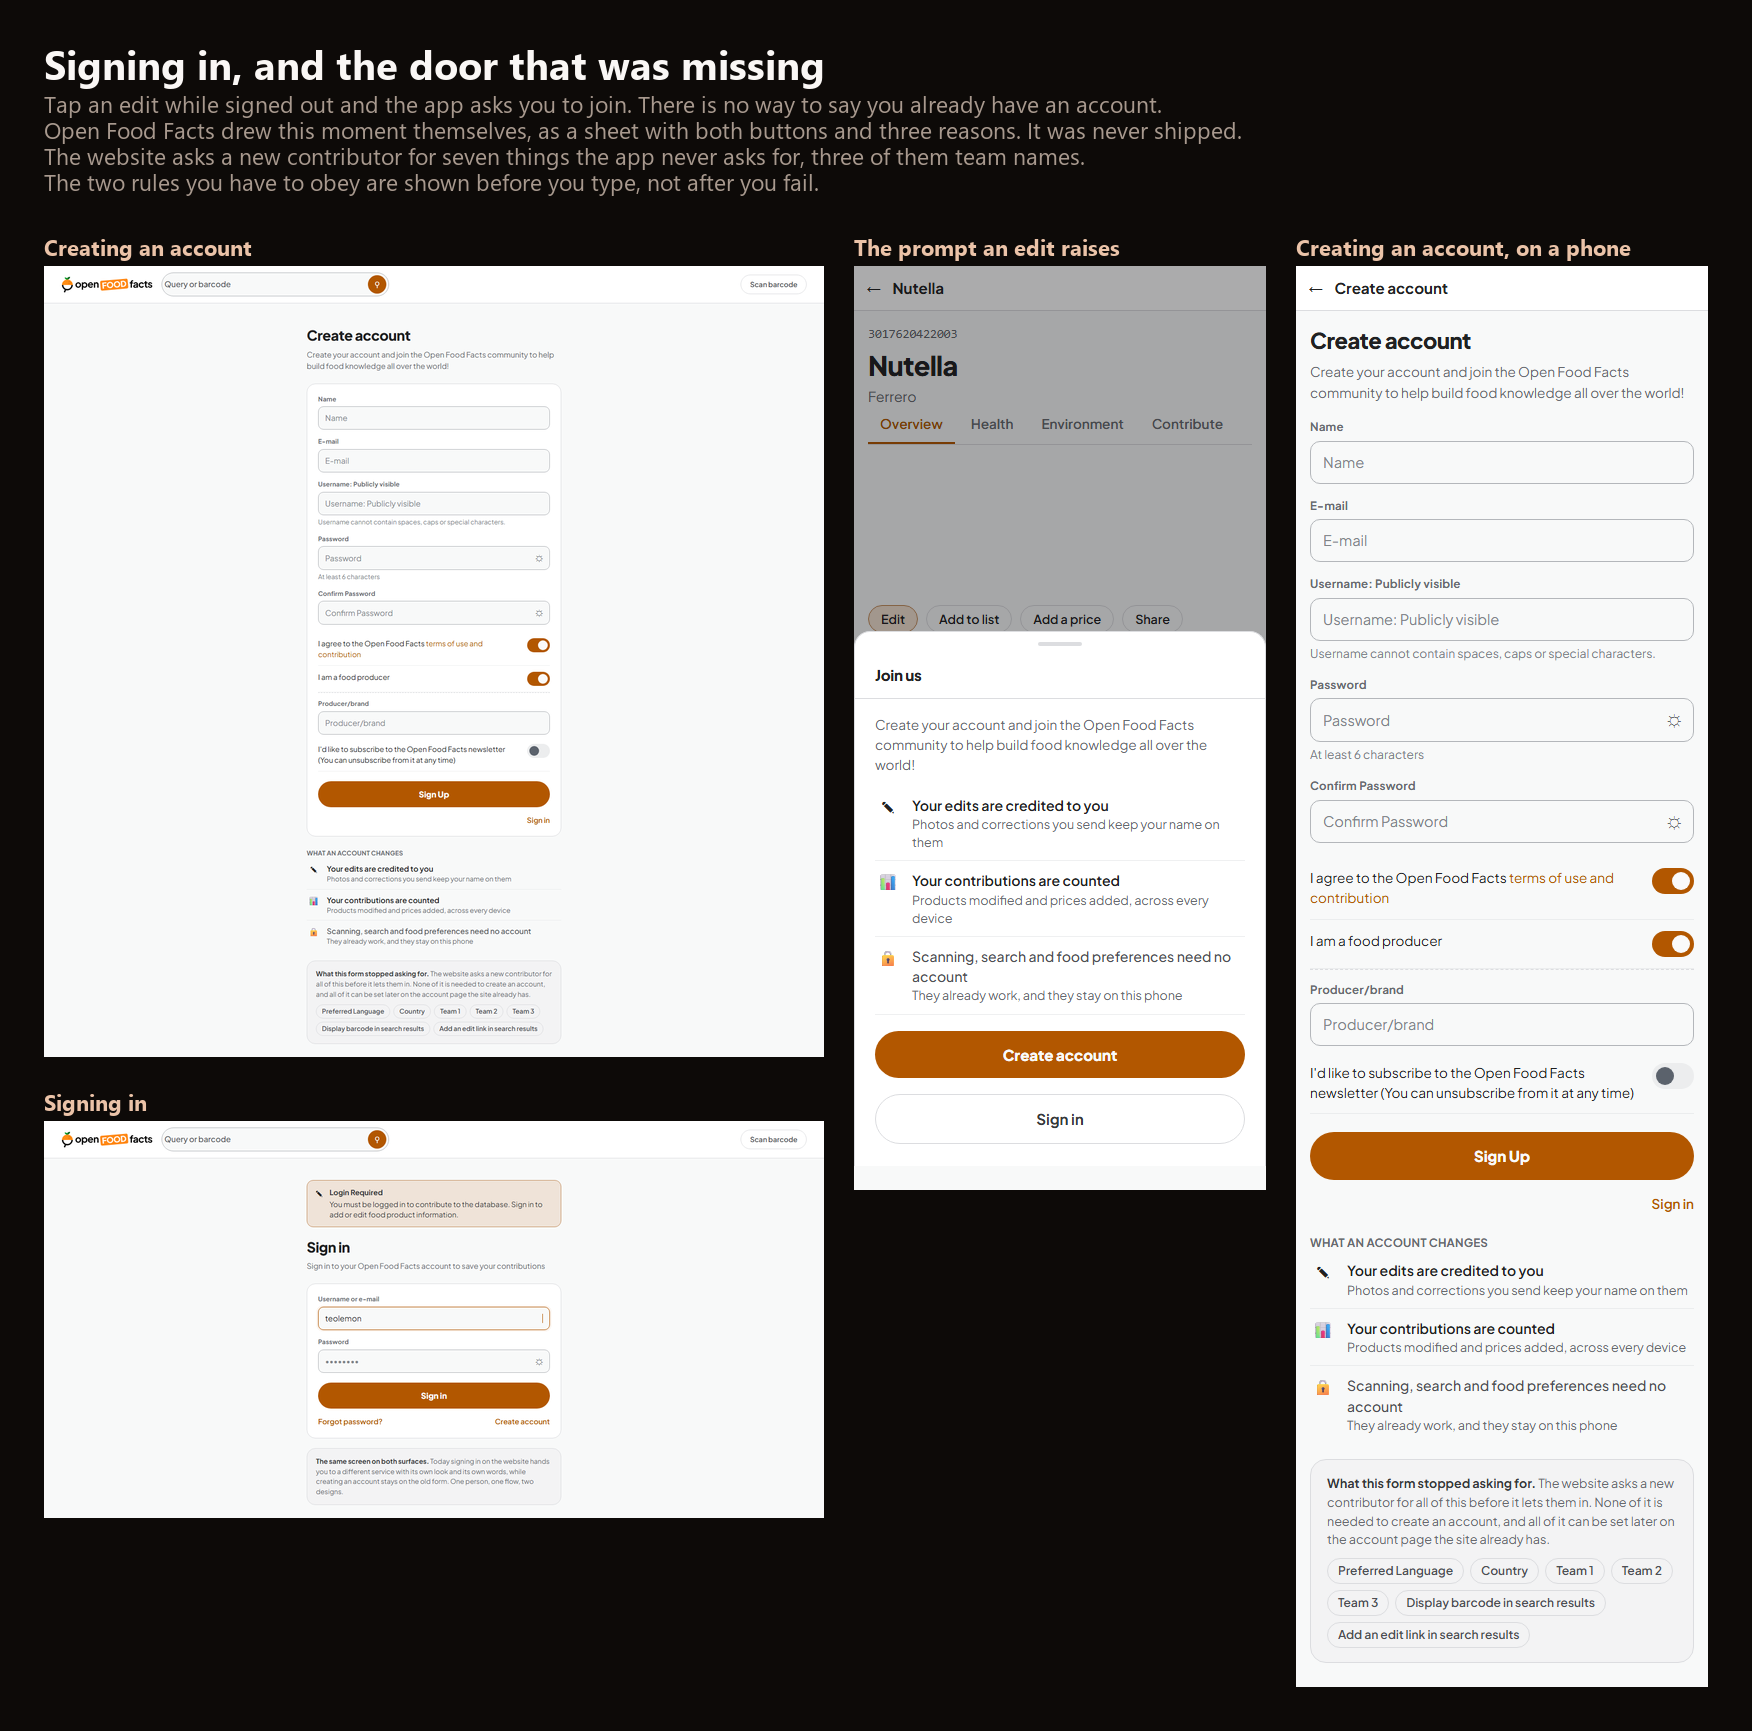
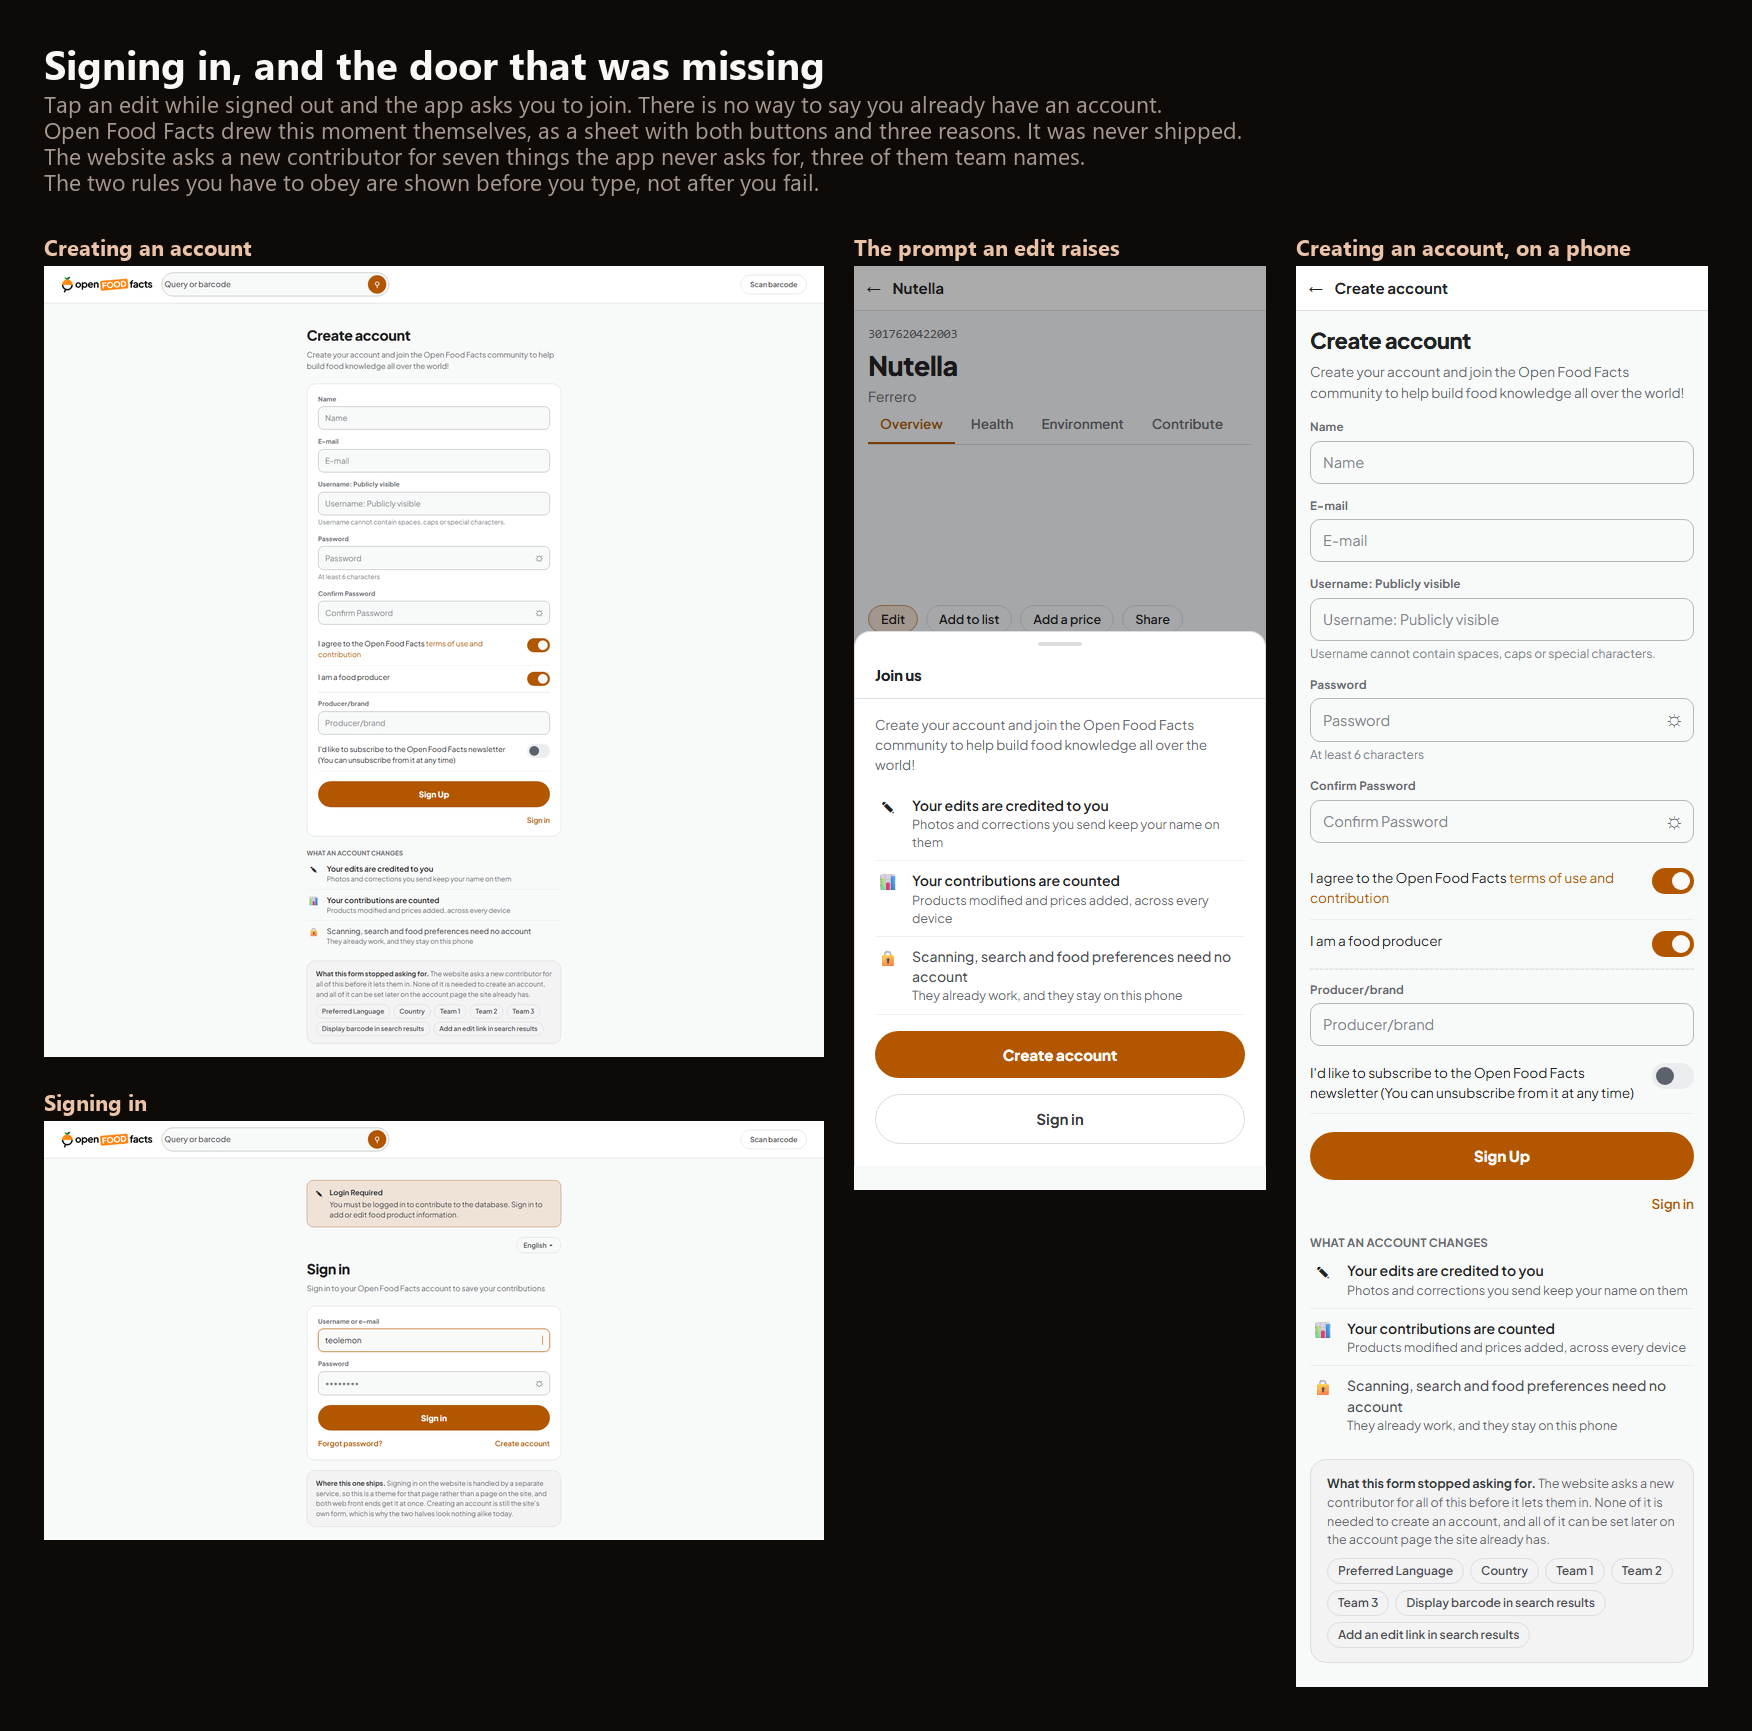
Account screens: the sign-in prompt with both doors, create account, reset

Changed region(s): [[0.0308, 0.7175, 0.4932, 0.9047]]

diff --git a/15-account/account-signin.html b/15-account/account-signin.html
@@ -33,6 +33,8 @@
       <span class="t"><b>Login Required</b>You must be logged in to contribute to the database. Sign in to add or edit food product information.</span>
     </div>
 
+    <div class="langrow"><span class="lang">English &#9662;</span></div>
+
     <h1>Sign in</h1>
     <div class="lead">Sign in to your Open Food Facts account to save your contributions</div>
 
@@ -54,8 +56,8 @@
     </div>
 
     <div class="dropped">
-      <b>The same screen on both surfaces.</b>
-      <span>Today signing in on the website hands you to a different service with its own look and its own words, while creating an account stays on the old form. One person, one flow, two designs.</span>
+      <b>Where this one ships.</b>
+      <span>Signing in on the website is handled by a separate service, so this is a theme for that page rather than a page on the site, and both web front ends get it at once. Creating an account is still the site's own form, which is why the two halves look nothing alike today.</span>
     </div>
 
   </div>

diff --git a/15-account/mock.css b/15-account/mock.css
@@ -17,6 +17,9 @@
 
 .card { background: var(--card); border: 1px solid var(--line); border-radius: var(--r); padding: 20px; }
 
+.langrow { display: flex; justify-content: flex-end; margin-bottom: 10px; }
+.langrow .lang { border: 1px solid var(--line); border-radius: 999px; padding: 5px 12px; font-size: 12.5px; font-weight: 600; color: var(--muted2); }
+
 .fld { margin-bottom: 14px; }
 .fld:last-child { margin-bottom: 0; }
 .fld > .lab { display: block; font-size: 11.5px; font-weight: 700; color: var(--muted); letter-spacing: .2px; margin-bottom: 5px; }
@@ -124,6 +127,7 @@
   .auth .lead { margin: 6px 0 16px; font-size: 13.5px; }
   
   .card { background: transparent; border: 0; border-radius: 0; padding: 0; }
+  .langrow { display: none; }
   .why, .dropped { margin-top: 16px; }
 }
 
